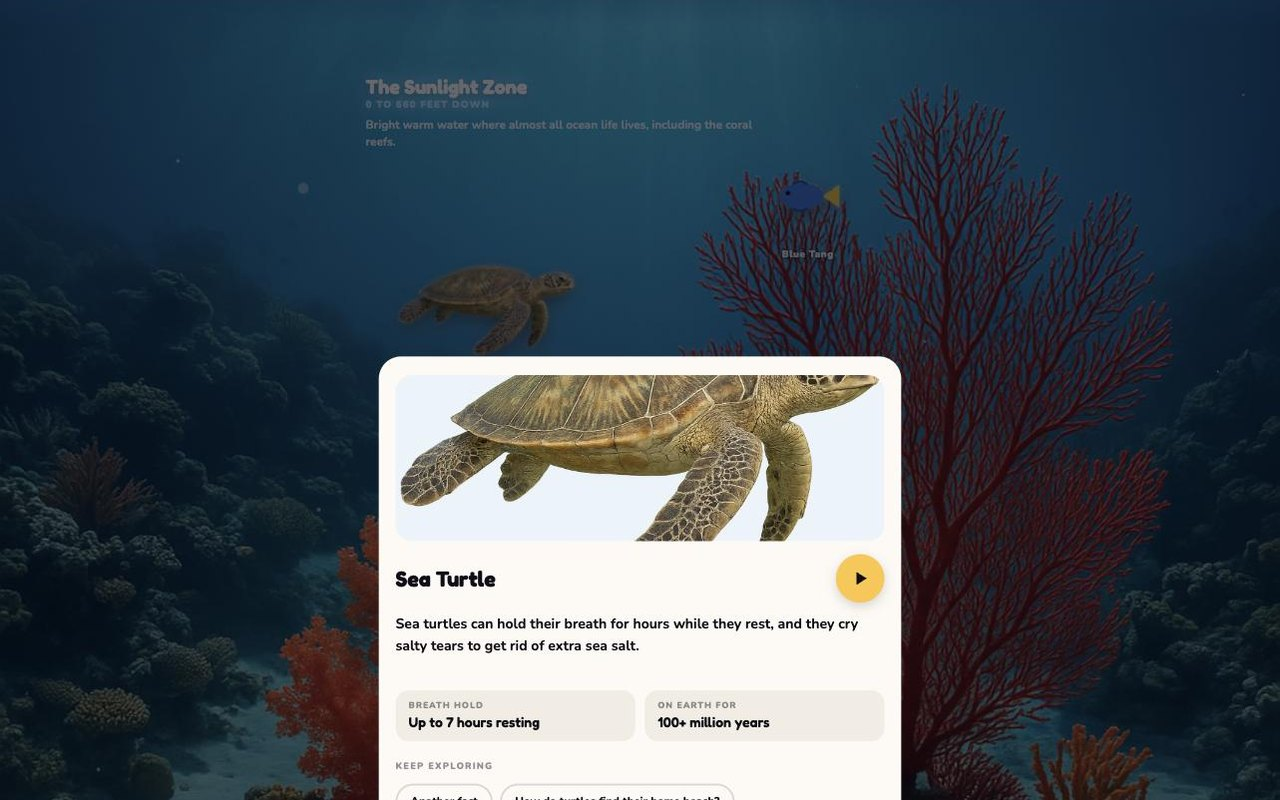
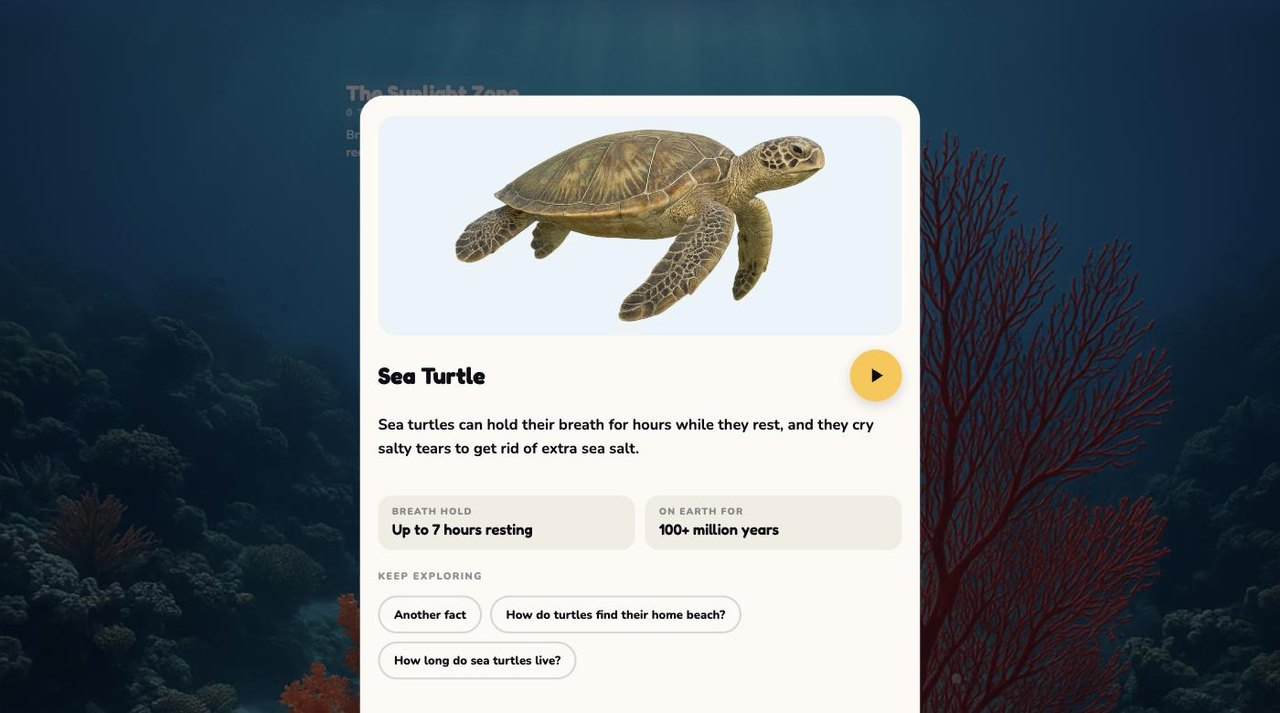
Cobuild: Play them together section (chess, family lobby, tennis), prices to $20 / $50 Max, whole turtle
Claude-Session: https://claude.ai/code/session_01687SujYCMCEmmJaWqv4AUx

diff --git a/public/cobuild.html b/public/cobuild.html
@@ -130,14 +130,14 @@ footer .logo{justify-content:center;margin-bottom:10px}
 </style></head><body>
 
 
-<nav><a href="/" class="logo" style="text-decoration:none"><span><span class="buildable">buildable</span><span class="kids">kids</span><span class="period">.</span></span><span class="cob">Cobuild</span></a><ul class="navlinks"><li><a href="#how">How it works</a></li><li><a href="#promise">No ads</a></li><li><a href="#terms">Your terms</a></li><li><a href="#learn">Learning</a></li><li><a href="#kidspedia">Kidspedia</a></li><li><a href="#pricing">Pricing</a></li></ul><a class="btn small" href="#" onclick="openDoor('nav');return false">Start building</a></nav>
+<nav><a href="/" class="logo" style="text-decoration:none"><span><span class="buildable">buildable</span><span class="kids">kids</span><span class="period">.</span></span><span class="cob">Cobuild</span></a><ul class="navlinks"><li><a href="#how">How it works</a></li><li><a href="#promise">No ads</a></li><li><a href="#terms">Your terms</a></li><li><a href="#learn">Learning</a></li><li><a href="#kidspedia">Kidspedia</a></li><li><a href="#together">Together</a></li><li><a href="#pricing">Pricing</a></li></ul><a class="btn small" href="#" onclick="openDoor('nav');return false">Start building</a></nav>
 <div class="wrap">
 <div class="hero"><div class="orb o1"></div><div class="orb o2"></div>
   <div>
     <div class="chip"><span class="dot"></span>New from Buildable Kids</div>
     <h1>Every kid deserves a parent with <em>superpowers.</em></h1>
     <p class="sub">You just got one. Build the game they keep asking for, together, in an afternoon. No coding, no experience, no ads. Ever.</p>
-    <a class="btn" href="#" onclick="openDoor('hero');return false">Start building, $10/month</a>
+    <a class="btn" href="#" onclick="openDoor('hero');return false">Start building, $20/month</a>
     <p class="tiny">Works on the phone or tablet you already have. Every kid in the house is included.</p>
   </div>
   <div class="phone-wrap">
@@ -221,6 +221,15 @@ footer .logo{justify-content:center;margin-bottom:10px}
   </div>
 </section>
 
+<section id="together">
+  <div class="center"><h2>Play them together.</h2><p class="sub" style="margin:8px auto 0">Solo against the computer, two players on one screen, or online with the people you already know. Grandma taps a link and plays. Nobody else can find your kid.</p></div>
+  <div class="games">
+    <div class="card glass"><img src="/cobuild/mp-chess.jpg" alt=""><div class="b"><span class="ask">Same screen</span><h3>Chess, blue vs. orange</h3><p>Pass the tablet across the table. The heroes are cute, the moves are real chess.</p></div></div>
+    <div class="card glass"><img src="/cobuild/mp-lobby.jpg" alt=""><div class="b"><span class="ask">Online, family only</span><h3>Dad, Mom, Riley, Grandma</h3><p>Your family is always on the list. Send a link to anyone else, they play without signing up.</p></div></div>
+    <div class="card glass"><img src="/cobuild/mp-tennis.jpg" alt=""><div class="b"><span class="ask">Best of three</span><h3>Tennis at sunset</h3><p>Slide to move, bounce it back. Turns, taunts, and a rematch button.</p></div></div>
+  </div>
+</section>
+
 <section>
   <div class="share">
     <div>
@@ -262,7 +271,7 @@ footer .logo{justify-content:center;margin-bottom:10px}
   <div class="prices">
     <div class="price glass">
       <h3>Cobuild</h3>
-      <div class="amt">$10<span>/month</span></div>
+      <div class="amt">$20<span>/month</span></div>
       <p style="color:var(--muted);font-weight:700">For the family that wants one great game at a time.</p>
       <ul>
         <li>3 new games a month</li>
@@ -271,12 +280,12 @@ footer .logo{justify-content:center;margin-bottom:10px}
         <li>Share by link with family and friends</li>
         <li>No ads, no purchases, no strangers. Ever.</li>
       </ul>
-      <a class="btn" href="#" onclick="openDoor('cobuild-10');return false">Start with Cobuild</a>
+      <a class="btn" href="#" onclick="openDoor('cobuild-20');return false">Start with Cobuild</a>
     </div>
     <div class="price glass hot">
       <span class="tag">MOST MAGIC</span>
-      <h3>Cobuild Premium</h3>
-      <div class="amt">$20<span>/month</span></div>
+      <h3>Cobuild Max</h3>
+      <div class="amt">$50<span>/month</span></div>
       <p style="color:var(--muted);font-weight:700">For the parent who wants to blow their minds.</p>
       <ul>
         <li>10 new games a month</li>
@@ -286,10 +295,10 @@ footer .logo{justify-content:center;margin-bottom:10px}
         <li class="plus">Custom cover art, printable poster</li>
         <li class="plus">A spot on the Buildable network</li>
       </ul>
-      <a class="btn purple" href="#" onclick="openDoor('premium-20');return false">Start with Premium</a>
+      <a class="btn purple" href="#" onclick="openDoor('max-50');return false">Start with Max</a>
     </div>
   </div>
-  <div class="more glass">Big month? Add 3 more games any time for $5. Only grown-ups ever see this. Kids just see their games.</div>
+  <div class="more glass">Big month? Add 3 more games any time for $10. Only grown-ups ever see this. Kids just see their games.</div>
 </section>
 
 <section>
@@ -299,14 +308,14 @@ footer .logo{justify-content:center;margin-bottom:10px}
     <div class="q glass"><b>What ages does this work for?</b><p>Kids 4 to 12 love building. Little ones point and pick, older kids take over the controls.</p></div>
     <div class="q glass"><b>Can grandma play without signing up?</b><p>Yes. The link opens in any phone browser. No app, no account.</p></div>
     <div class="q glass"><b>Is my kid's stuff safe?</b><p>Games only go where you send them. No public profile, no chat, no messages from anyone.</p></div>
-    <div class="q glass"><b>What happens when I hit my monthly games?</b><p>You can still play and change every game you have. Add more for $5 when you need them.</p></div>
+    <div class="q glass"><b>What happens when I hit my monthly games?</b><p>You can still play and change every game you have. Add more for $10 when you need them.</p></div>
   </div>
 </section>
 
 <div class="last">
   <h2>Superpowers, activated.</h2>
   <p class="sub" style="margin:14px auto 26px">Their idea. Your afternoon. A game with their name on it.</p>
-  <a class="btn" href="#" onclick="openDoor('bottom');return false">Start building, $10/month</a>
+  <a class="btn" href="#" onclick="openDoor('bottom');return false">Start building, $20/month</a>
 </div>
 
 <footer><div class="logo"><span><span class="buildable">buildable</span><span class="kids">kids</span><span class="period">.</span></span><span class="cob">Cobuild</span></div><p>A safe creative space for kids &amp; families · Made by a dad, tested by his kids · &copy; 2026 Buildable Kids Inc.</p></footer>
@@ -371,7 +380,7 @@ function waitlist(where){
 // that page exists this resolves to nothing and the catch below takes over,
 // which is the behaviour we want anyway: never a dead end.
 function startSignup(where){
-  var plan = where.indexOf('premium')===0?'premium-20':(where.indexOf('cobuild')===0?'cobuild-10':'unpicked');
+  var plan = where.indexOf('max')===0?'max-50':(where.indexOf('cobuild')===0?'cobuild-20':'unpicked');
   return new Promise(function(resolve,reject){
     if(!window.BuildableSignup || !window.BuildableSignup.open) return reject(new Error('signup not built yet'));
     window.BuildableSignup.open({plan:plan,source:where,then:resolve,fail:reject});
@@ -381,7 +390,7 @@ function openDoor(where){
   picked=where;
   // the click is logged FIRST and always, switch or no switch, because what we
   // are learning from this page is which button people press
-  log({kind:'click',source:where,plan:where.indexOf('premium')===0?'premium-20':(where.indexOf('cobuild')===0?'cobuild-10':null)});
+  log({kind:'click',source:where,plan:where.indexOf('max')===0?'max-50':(where.indexOf('cobuild')===0?'cobuild-20':null)});
   if(LIVE){startSignup(where).catch(function(){ waitlist(where); });}
   else { waitlist(where); }   // not switched on yet
 }
@@ -389,7 +398,7 @@ function closeDoor(){document.getElementById('modal').classList.remove('open')}
 function thanks(){
   var email=document.getElementById('email').value.trim();
   if(email.indexOf('@')<0){document.getElementById('email').style.borderColor='#FF6B6B';document.getElementById('email').focus();return;}
-  var plan=picked.indexOf('premium')===0?'premium-20':(picked.indexOf('cobuild')===0?'cobuild-10':'unpicked');
+  var plan=picked.indexOf('max')===0?'max-50':(picked.indexOf('cobuild')===0?'cobuild-20':'unpicked');
   log({kind:'lead',source:picked,plan:plan,email:email,kidName:document.getElementById('kidname').value,kidAge:document.getElementById('kidage').value,gameIdea:document.getElementById('idea').value});
   document.getElementById('form').style.display='none';document.getElementById('thanks').style.display='block';
 }
